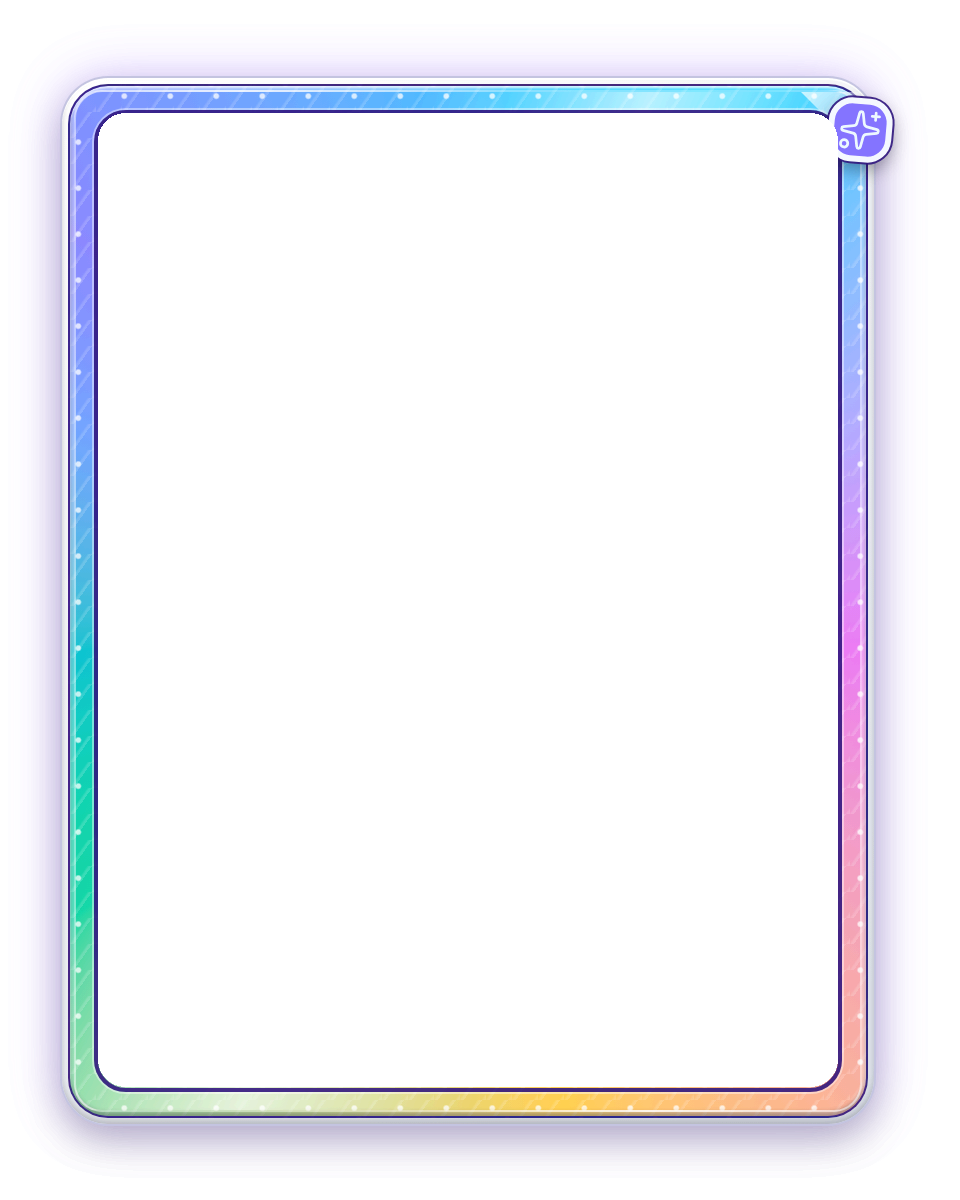
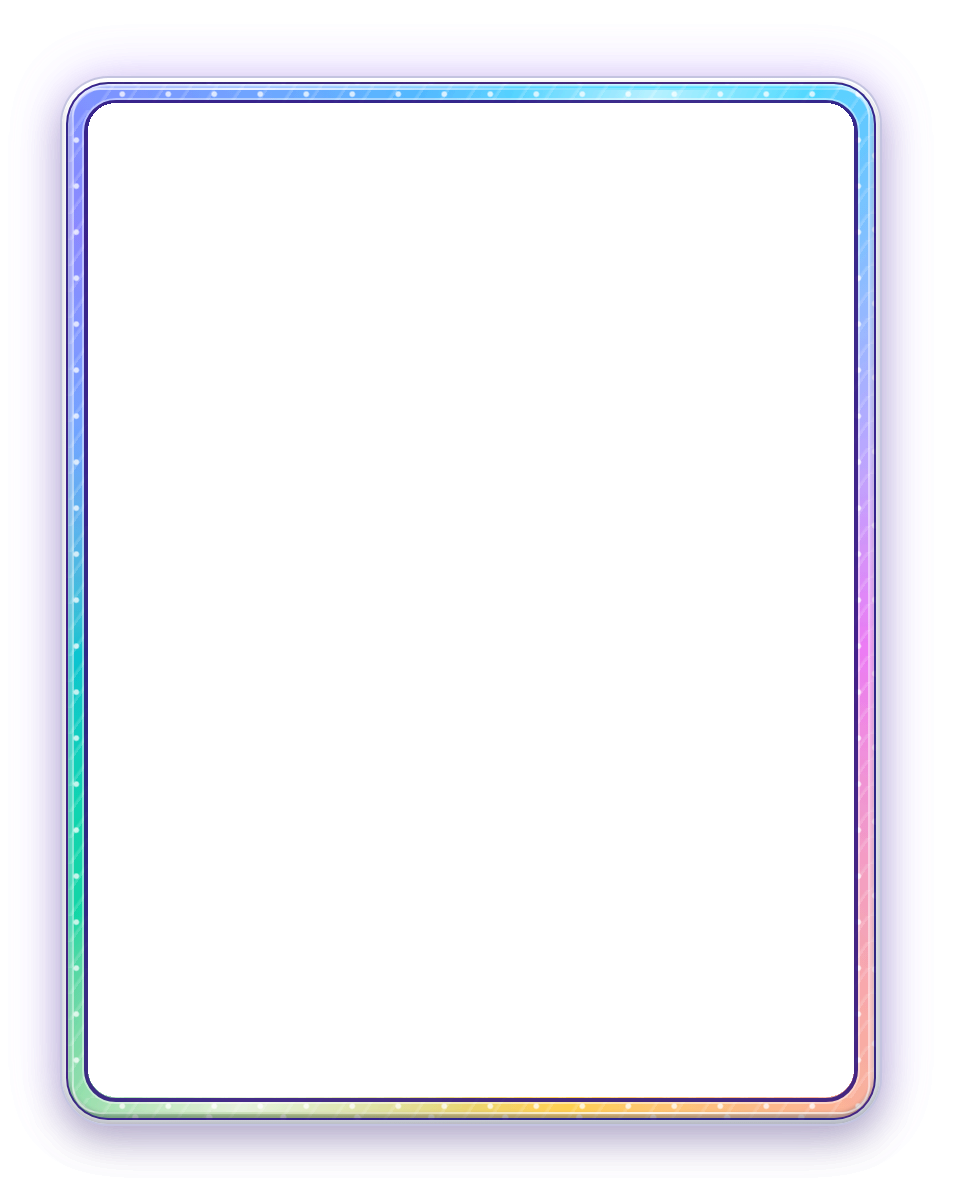
fix(web+og): drop the orphaned corner gleam, refresh the stale OG frames
The collectible rail kept a 30x30 square-cornered gleam triangle pinned
to its top-right (clip-path polygon, screen blend). The tier seal used
to sit on top of it; since the seal was dropped (515c83e) the gleam
reads as a defect: a bright wedge with hard edges crossing the keyline,
its right angle poking past the rounded corner. Remove it, and clip the
rail (overflow: clip) so no square-edged decoration can paint past the
curve again.

The bundled OG frame assets were exported before both the seal removal
and the slimmer-chrome pass, so share cards wore a corner badge and
chrome the site no longer has — and the export harness still imported
the deleted TierSeal atom, so it could not run. The harness now feeds
the window a stand-in art fill at the master ratio (the snug window
collapses without one), expected geometry follows the measured slimmer
chrome (aperture 766x994), and the composer derives its aperture fit
from the manifest instead of a hardcoded master height. Frames and
manifest regenerated from the fixed component.

Changed region(s): [[0.0625, 0.0617, 0.9375, 0.9558]]

diff --git a/web/scripts/og-frame-export.tsx b/web/scripts/og-frame-export.tsx
@@ -1,12 +1,11 @@
+import type { CSSProperties } from 'react'
 import { createRoot } from 'react-dom/client'
 import { FoilCard, FoilMedia } from '../src/atoms/foil-frame'
-import { TierSeal } from '../src/atoms/tier-seal'
 import '../src/index.css'
 
 const TIER_KEYS = ['paper', 'silver', 'holo', 'chrome', 'gold', 'prismatic', 'shiny'] as const
 const tierParam = new URLSearchParams(window.location.search).get('tier') ?? 'paper'
 const tierKey = TIER_KEYS.includes(tierParam as (typeof TIER_KEYS)[number]) ? tierParam : 'paper'
-const tierName = `${tierKey.slice(0, 1).toUpperCase()}${tierKey.slice(1)}`
 
 const exportStyles = document.createElement('style')
 exportStyles.textContent = `
@@ -29,7 +28,8 @@ exportStyles.textContent = `
     top: 37.5px;
     width: 420px;
   }
-  [data-slot="og-export-frame"] [data-slot="collectible-window"] {
+  [data-slot="og-export-frame"] [data-slot="collectible-window"],
+  [data-slot="og-export-frame"] [data-slot="collectible-art-link"] {
     background: transparent !important;
     box-shadow: 0 0 0 1px oklch(1 0 0 / 0.44);
   }
@@ -40,10 +40,14 @@ document.documentElement.dataset.theme = 'dark'
 createRoot(document.getElementById('root')!).render(
   <div data-slot="og-export-stage">
     <FoilCard tierKey={tierKey} presentation="collectible" rarityLadder data-slot="og-export-frame">
-      <FoilMedia
-        presentation="collectible"
-        seal={<TierSeal tierKey={tierKey} label={`${tierName} tier`} />}
-      />
+      <FoilMedia presentation="collectible">
+        {/* Stand-in for the art fill: the window wraps this ratio (the master aperture, 383x497 css,
+            picked so the whole card lands exactly on the 480x600 stage). */}
+        <span
+          data-slot="collectible-art-link"
+          style={{ '--meme-aspect': '383 / 497' } as CSSProperties}
+        />
+      </FoilMedia>
     </FoilCard>
   </div>,
 )

diff --git a/api/src/ogCard.ts b/api/src/ogCard.ts
@@ -9,9 +9,6 @@ export const MEME_OG_HEIGHT = 1200
 // The art window takes the media's own ratio, clamped like the web grid (1:2..2:1).
 const CARD_ASPECT_MIN = 0.5
 const CARD_ASPECT_MAX = 2
-// Longest aperture side; the master portrait frame's aperture height, so a
-// classic portrait meme still yields the familiar 960x1200 card.
-const APERTURE_FIT = 974
 
 export interface Rect {
   x: number
@@ -203,8 +200,11 @@ export function collectibleCardGeometry(
   }
   const raw = artWidth > 0 && artHeight > 0 ? artWidth / artHeight : 1
   const ratio = Math.min(CARD_ASPECT_MAX, Math.max(CARD_ASPECT_MIN, raw))
-  const apertureWidth = ratio >= 1 ? APERTURE_FIT : Math.round(APERTURE_FIT * ratio)
-  const apertureHeight = ratio >= 1 ? Math.round(APERTURE_FIT / ratio) : APERTURE_FIT
+  // The longest aperture side matches the master frame's, so a meme at the
+  // master's own ratio still yields the familiar 960x1200 card exactly.
+  const fit = Math.max(aperture.width, aperture.height)
+  const apertureWidth = ratio >= 1 ? fit : Math.round(fit * ratio)
+  const apertureHeight = ratio >= 1 ? Math.round(fit / ratio) : fit
   return {
     width: margins.left + apertureWidth + margins.right,
     height: margins.top + apertureHeight + margins.bottom,
@@ -218,8 +218,8 @@ export function collectibleCardGeometry(
   }
 }
 
-// 9-slice insets for reshaping the master frame overlay: corners (rounding,
-// star badge top-right) copy verbatim, the bands between them stretch.
+// 9-slice insets for reshaping the master frame overlay: the corner rounding
+// copies verbatim, the bands between the corners stretch.
 const FRAME_SLICE = { left: 220, top: 250, right: 290, bottom: 220 }
 
 function reshapeFrame(frame: JimpImage, width: number, height: number): JimpImage {

diff --git a/web/src/atoms/foil.css b/web/src/atoms/foil.css
@@ -279,6 +279,8 @@
     padding: 8px;
     border: 1px solid var(--collectible-keyline);
     border-radius: calc(var(--radius-lg) - 3px);
+    /* Square-edged decorations (the sheen sweep) must not paint past the rounded corner. */
+    overflow: clip;
     background-image: var(--collectible-grain), var(--collectible-rail);
     background-position: var(--collectible-background-position, 0 0, 0 0);
     background-size: var(--collectible-background-size, auto, 100% 100%);
@@ -286,20 +288,6 @@
       0 1px 1px oklch(1 0 0 / 0.72) inset,
       0 -2px 2px oklch(0.12 0.03 280 / 0.32) inset,
       0 0 0 2px oklch(1 0 0 / 0.34) inset;
-  }
-
-  .foil-media[data-presentation="collectible"] [data-slot="collectible-rail"]::before {
-    content: "";
-    position: absolute;
-    z-index: 2;
-    top: 3px;
-    right: 3px;
-    width: 30px;
-    height: 30px;
-    pointer-events: none;
-    background: linear-gradient(135deg, oklch(1 0 0 / 0.72), oklch(1 0 0 / 0.08));
-    clip-path: polygon(0 0, 100% 0, 100% 100%);
-    mix-blend-mode: screen;
   }
 
   .foil-media[data-presentation="collectible"] [data-slot="collectible-rail"]::after {
